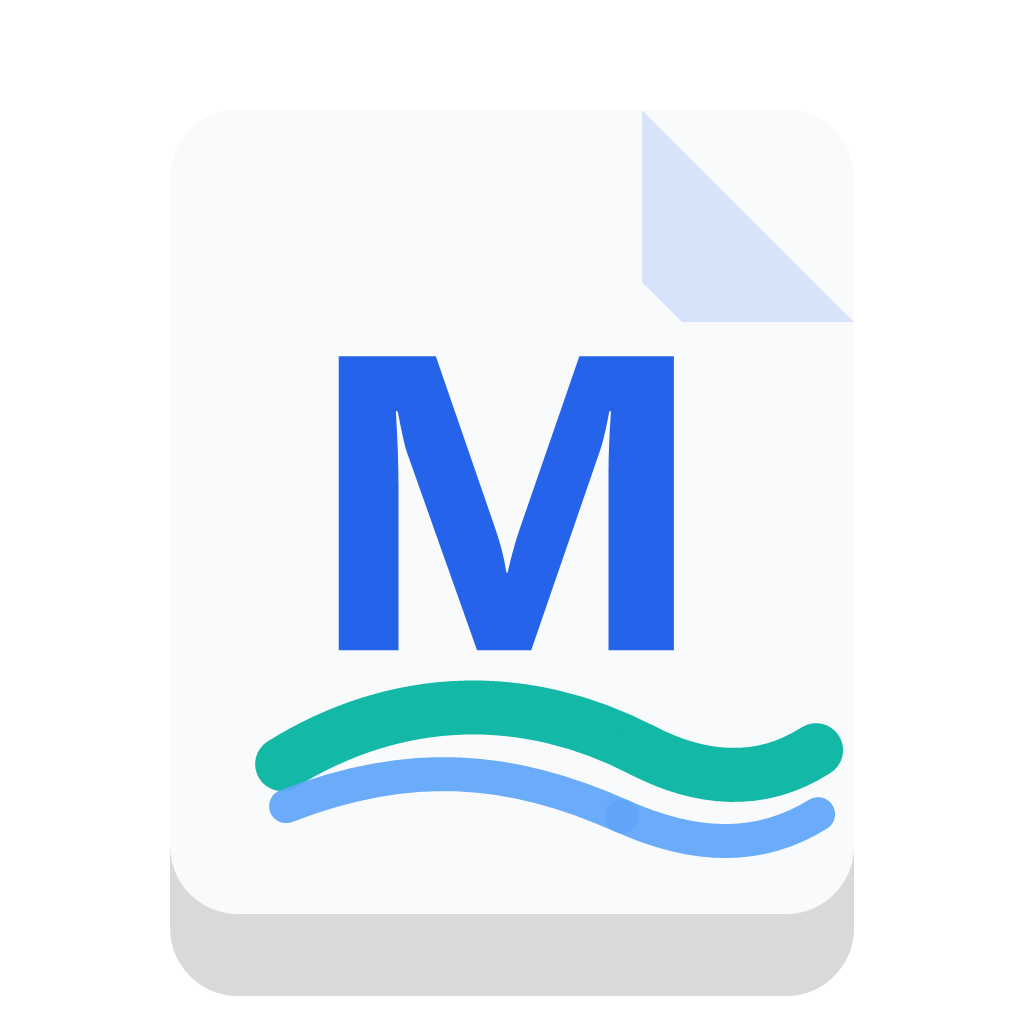
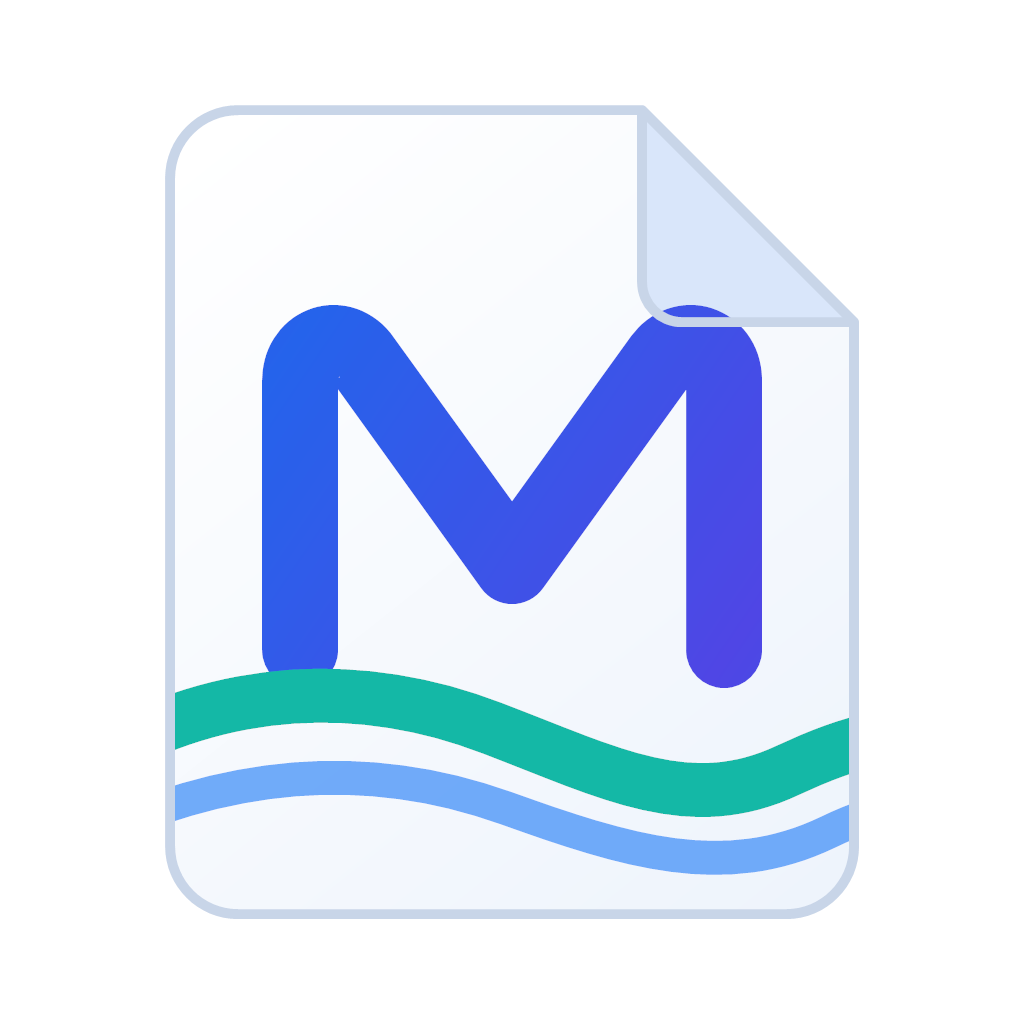
SVG 기반 앱 아이콘 빌드 파이프라인 추가

diff --git a/Tools/MarkFlow.IconBuilder/Program.cs b/Tools/MarkFlow.IconBuilder/Program.cs
@@ -1,0 +1,68 @@
+using System.Drawing.Imaging;
+using Svg;
+
+if (args.Length != 2)
+{
+    Console.Error.WriteLine("Usage: MarkFlow.IconBuilder <source.svg> <output-directory>");
+    return 1;
+}
+
+var sourcePath = Path.GetFullPath(args[0]);
+var outputDirectory = Path.GetFullPath(args[1]);
+if (!File.Exists(sourcePath))
+{
+    Console.Error.WriteLine($"SVG source was not found: {sourcePath}");
+    return 2;
+}
+
+Directory.CreateDirectory(outputDirectory);
+var document = SvgDocument.Open<SvgDocument>(sourcePath);
+var iconSizes = new[] { 16, 20, 24, 32, 40, 48, 64, 128, 256 };
+var iconFrames = new List<(int Size, byte[] Data)>();
+
+foreach (var size in iconSizes)
+{
+    var outputPath = Path.Combine(outputDirectory, $"MarkFlow-{size}.png");
+    RenderPng(document, size, outputPath);
+    iconFrames.Add((size, File.ReadAllBytes(outputPath)));
+}
+
+RenderPng(document, 1024, Path.Combine(outputDirectory, "MarkFlow.png"));
+WriteIco(Path.Combine(outputDirectory, "MarkFlow.ico"), iconFrames);
+return 0;
+
+static void RenderPng(SvgDocument document, int size, string outputPath)
+{
+    using var bitmap = document.Draw(size, size);
+    bitmap.SetResolution(96, 96);
+    bitmap.Save(outputPath, ImageFormat.Png);
+}
+
+static void WriteIco(string outputPath, IReadOnlyList<(int Size, byte[] Data)> frames)
+{
+    using var stream = File.Create(outputPath);
+    using var writer = new BinaryWriter(stream);
+
+    writer.Write((ushort)0);
+    writer.Write((ushort)1);
+    writer.Write((ushort)frames.Count);
+
+    var dataOffset = 6 + (16 * frames.Count);
+    foreach (var frame in frames)
+    {
+        writer.Write((byte)(frame.Size >= 256 ? 0 : frame.Size));
+        writer.Write((byte)(frame.Size >= 256 ? 0 : frame.Size));
+        writer.Write((byte)0);
+        writer.Write((byte)0);
+        writer.Write((ushort)1);
+        writer.Write((ushort)32);
+        writer.Write(frame.Data.Length);
+        writer.Write(dataOffset);
+        dataOffset += frame.Data.Length;
+    }
+
+    foreach (var frame in frames)
+    {
+        writer.Write(frame.Data);
+    }
+}

diff --git a/README.en.md b/README.en.md
@@ -38,10 +38,11 @@ MarkFlow is a Markdown viewer and editor built with .NET 9 and WPF for Windows 1
 
 ```text
 MDViewer/
-├─ Assets/                  # MarkFlow logo, PNG, and ICO resources
+├─ Assets/                  # MarkFlow SVG source and generated PNG/ICO assets
 ├─ Models/                  # Models and enums shared by views and services
 ├─ Resources/               # Shared styles and Light/Dark theme resources
 ├─ Services/                # Rendering, theme, DWM, fonts, recent files, file watching
+├─ Tools/MarkFlow.IconBuilder/ # Build-time SVG icon converter
 ├─ Utilities/               # MVVM commands and ObservableObject
 ├─ ViewModels/              # MainViewModel
 ├─ App.xaml                 # Application resource dictionaries
@@ -129,6 +130,12 @@ Watches the active file for external changes. Repeated `FileSystemWatcher` event
 
 Runs short UI transitions such as sidebar expansion and collapse without relying on a permanent `CompositionTarget.Rendering` loop.
 
+### Icon Build Pipeline
+
+`Assets/MarkFlowLogo.svg` is the single editable source for the MarkFlow icon. During builds, `Tools/MarkFlow.IconBuilder` renders 16, 20, 24, 32, 40, 48, 64, 128, 256, and 1024px PNG files and a multi-resolution `MarkFlow.ico`.
+
+The PNG and ICO files are build outputs and should not be edited directly. MSBuild runs the `GenerateMarkFlowIcons` target only when the SVG source or converter code changes.
+
 ## How It Works
 
 ### Opening a File
@@ -206,6 +213,7 @@ Before publishing a release, verify:
 
 - `MarkFlow.exe` starts correctly
 - Application and taskbar icons render correctly
+- PNG and ICO assets regenerate after changing the SVG source
 - Acrylic blur is active
 - File open, drop, and recent-file workflows work
 - Unsaved preview and save workflows work